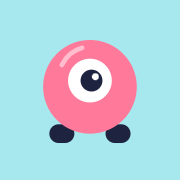
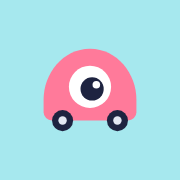
SafeRide: uniform purple header, Safe/Ride wordmark, Ridi without arc (v1020.10)

Changed region(s): [[0.2222, 0.2222, 0.7778, 0.8056], [0.3611, 0.3056, 0.6389, 0.6111]]

diff --git a/design_system_v1020/styles.css b/design_system_v1020/styles.css
@@ -1,4 +1,4 @@
-/* SafeRide Soft Sky — design_system_v1020
+/* SafeRide — design_system_v1020
    Tokens and components follow design_system_v1020.md. Light by default, dark via [data-theme="dark"]. */
 :root{
   --ground:#F2F4FA;--sheet:#F7F8FC;--card:#FFFFFF;--line:#E3E7F2;
@@ -6,6 +6,7 @@
   --tint-sky:#B9C7FF;--tint-aqua:#A6E8EE;--tint-blush:#FFD3DE;--tint-lilac:#DCD6FF;--tint-peach:#FFD0B5;
   --row-out:#F3F5FF;--row-back:#FFF5EE;
   --action:#3D5BD9;--action-hover:#2A44B0;--on-action:#FFFFFF;--action-line:#C9D2F2;--action-text:#2E47B8;--focus:#3D5BD9;
+  --brand-safe:#A6E8EE;--brand-ride:#8FAEFF;--brand-header:#3A3368;--on-header:#F4F2FF;--on-header-muted:#DDD9F5;
   --ridi:#FF7A9A;--accent-text:#C92F58;--tab-line:#E5486F;
   --ok-bg:#D7F5E3;--ok-fg:#17663A;--verified-bg:#E6F7EE;
   --wait-bg:#FFF1C7;--wait-fg:#7A5300;--note-bg:#FFF6DA;
@@ -26,6 +27,7 @@
   --tint-sky:#2D3B78;--tint-aqua:#1C4E58;--tint-blush:#5E2A3B;--tint-lilac:#3A3368;--tint-peach:#5A3520;
   --row-out:#232B52;--row-back:#3A2A22;
   --action:#8FA6FF;--action-hover:#B3C2FF;--on-action:#10142B;--action-line:#4A5590;--action-text:#B3C2FF;--focus:#B3C2FF;
+  --brand-safe:#A6E8EE;--brand-ride:#8FAEFF;--brand-header:#3A3368;--on-header:#F4F2FF;--on-header-muted:#DDD9F5;
   --ridi:#FF7A9A;--accent-text:#FF9DB4;--tab-line:#FF7A9A;
   --ok-bg:#173D2A;--ok-fg:#8FE0B0;--verified-bg:#163326;
   --wait-bg:#3D3214;--wait-fg:#F5D47A;--note-bg:#33290F;
@@ -69,7 +71,10 @@ h1,h2,h3,h4,p{margin:0}
 .screen{flex:1;display:flex;flex-direction:column;min-height:0}
 /* colour header */
 .hd{position:relative;padding:calc(env(safe-area-inset-top,0px) + 12px) var(--space-5) 52px;color:var(--ink)}
-.hd.driver{background:var(--tint-sky)}.hd.parent{background:var(--tint-aqua)}.hd.child{background:var(--tint-blush)}.hd.admin{background:var(--tint-lilac)}
+.hd,.hd.driver,.hd.parent,.hd.child,.hd.admin{background:var(--brand-header);color:var(--on-header)}
+.hd .circ,.hd .demo{background:rgba(255,255,255,.18);color:#fff}
+.hd .kick{color:var(--on-header-muted);opacity:1}
+.hd .bubble{background:var(--card);color:var(--ink)}
 .hd.m72{padding-bottom:76px}.hd.m96{padding-bottom:86px}
 .hd-top{display:flex;align-items:center;justify-content:space-between;gap:var(--space-2);min-height:44px;margin-bottom:var(--space-2)}
 .hd-top .sp{width:44px}
@@ -201,8 +206,8 @@ select.in{appearance:none;background-image:linear-gradient(45deg,transparent 50%
 .lrow{display:flex;align-items:center;gap:var(--space-3)}
 /* welcome */
 .welcome{flex:1;display:flex;flex-direction:column;align-items:center;padding:calc(env(safe-area-inset-top,0px) + 40px) var(--space-4) var(--space-8);gap:var(--space-4)}
-.welcome .word{font:800 34px/40px var(--display);color:var(--ink);letter-spacing:-.5px;direction:ltr}
-.welcome .word span{color:var(--action-text)}
+.welcome .word{font:800 34px/40px var(--display);color:var(--brand-safe);letter-spacing:-.5px;direction:ltr}
+.welcome .word span{color:var(--brand-ride)}
 .welcome .who{width:100%;display:flex;flex-direction:column;gap:var(--space-3)}
 .role-card{display:flex;align-items:center;gap:var(--space-3);background:var(--card);border-radius:var(--r-card);box-shadow:var(--shadow-card);padding:var(--space-3) var(--space-4);border:0;width:100%;text-align:right;font:inherit;color:inherit}
 .role-card>.ic{color:var(--ink-muted);width:22px;height:22px}
@@ -235,3 +240,5 @@ select.in{appearance:none;background-image:linear-gradient(45deg,transparent 50%
 .composer .in{flex:1}
 .composer .send{width:52px;height:52px;border-radius:var(--r-btn);border:0;background:var(--action);color:var(--on-action);display:inline-flex;align-items:center;justify-content:center;flex:none}
 .composer .send svg{transform:scaleX(-1)}
+
+.welcome{background:var(--brand-header);color:var(--on-header)}.welcome .sub,.welcome .lead,.welcome p{color:var(--on-header-muted)}.welcome .role-card,.welcome .role-card p{color:var(--ink)}

diff --git a/design_system_v1020/app.js b/design_system_v1020/app.js
@@ -1,4 +1,4 @@
-/* SafeRide · Soft Sky (design_system_v1020) — mobile prototype, demo data only. */
+/* SafeRide (design_system_v1020) — mobile prototype, demo data only. */
 (function(){
 'use strict';
 /* ================= icons (line, 24 grid, round caps) ================= */
@@ -137,14 +137,13 @@ function toast(t){
 }
 function go(v){S.view=v;S.modal=null;S.errs={};render()}
 
-/* ================= Soft Sky components ================= */
+/* ================= SafeRide components ================= */
 function Ridi(size,look){
- var dx=look==='left'?-3:look==='right'?3:0;
- return '<svg width="'+size+'" height="'+size+'" viewBox="0 0 72 72" aria-hidden="true">'+
-  '<rect x="10" y="58" width="16" height="12" rx="6" fill="#1E2340"/><rect x="46" y="58" width="16" height="12" rx="6" fill="#1E2340"/>'+
-  '<circle cx="36" cy="34" r="30" fill="var(--ridi)"/>'+
-  '<path d="M18 20a21 21 0 0 1 13-11" fill="none" stroke="#fff" stroke-opacity=".5" stroke-width="3" stroke-linecap="round"/>'+
-  '<circle cx="36" cy="30" r="14" fill="#fff"/><circle cx="'+(37+dx)+'" cy="30" r="7" fill="#1E2340"/><circle cx="'+(39.5+dx)+'" cy="27.5" r="2.2" fill="#fff"/></svg>';
+ var dx=look==='left'?-2:look==='right'?2:0;
+ return '<svg width="'+size+'" height="'+size+'" viewBox="4 9 56 56" aria-hidden="true">'+
+  '<path d="M10 40c0-12 9-24 22-24s22 12 22 24v6a4 4 0 0 1-4 4H14a4 4 0 0 1-4-4z" fill="var(--ridi)"/>'+
+  '<circle cx="32" cy="34" r="10" fill="#fff"/><circle cx="'+(33+dx)+'" cy="35" r="5.5" fill="#1E2340"/><circle cx="'+(35+dx)+'" cy="33" r="1.8" fill="#fff"/>'+
+  '<circle cx="19" cy="50" r="5" fill="#1E2340"/><circle cx="45" cy="50" r="5" fill="#1E2340"/><circle cx="19" cy="50" r="2" fill="#E3E7F2"/><circle cx="45" cy="50" r="2" fill="#E3E7F2"/></svg>';
 }
 function chip(kindName,icon,text,lg){return '<span class="chip '+kindName+(lg?' lg':'')+'">'+(icon?ic(icon):'')+esc(text)+'</span>'}
 var ST={approved:['ok','check','מאושר'],placed:['ok','check','משובץ'],pending:['wait','clock','ממתינה'],missing:['none','minus','חסר'],unplaced:['none','minus','לא משובץ'],rejected:['no','x','נדחתה'],verified:['verified','shield','מאומת על ידי החוג']};
@@ -869,7 +868,7 @@ function modalHtml(){
    '<div class="field"><label for="selClock">'+ic('clock')+'שעון ההדגמה</label><select id="selClock" class="in">'+CLOCKS.map(function(c){return '<option value="'+c.k+'" '+(S.clock===c.k?'selected':'')+'>'+c.label+'</option>'}).join('')+'</select></div>'+
    '<div class="field"><span class="lbl2">מראה</span><div class="seg">'+th.map(function(t){return '<button type="button" aria-pressed="'+(S.theme===t[0])+'"'+da('theme',{v:t[0]})+'>'+t[1]+'</button>'}).join('')+'</div></div>'+
    '<div class="field"><span class="lbl2">'+ic('sparkle')+'תנועה של רידי</span><div class="seg"><button type="button" aria-pressed="'+(S.motion==='auto')+'"'+da('motion',{v:'auto'})+'>לפי המכשיר</button><button type="button" aria-pressed="'+(S.motion==='on')+'"'+da('motion',{v:'on'})+'>תמיד</button></div><p class="cap mut">'+(reducedMotion()?'המכשיר שלך מבקש להפחית תנועה, ולכן ב"לפי המכשיר" רידי לא זז. בחר "תמיד" כדי לראות אותו מתנדנד.':'המכשיר לא מבקש להפחית תנועה, אז רידי אמור לזוז כל 2 שניות.')+'</p></div>'+
-   Btn('איפוס נתוני הדמה',{v:'danger',sm:true,a:'resetDemo'})+Btn('סגירה',{a:'closeModal'})+'<p class="cap mut" style="text-align:center">גרסה 1020.6 · רידי: תנועה לפי המכשיר או תמיד</p>');
+   Btn('איפוס נתוני הדמה',{v:'danger',sm:true,a:'resetDemo'})+Btn('סגירה',{a:'closeModal'})+'<p class="cap mut" style="text-align:center">גרסה 1020.10 · רידי: תנועה לפי המכשיר או תמיד</p>');
  }
  return '';
 }

diff --git a/design_system_v1020/index.html b/design_system_v1020/index.html
@@ -3,9 +3,9 @@
 <head>
 <meta charset="utf-8">
 <meta name="viewport" content="width=device-width,initial-scale=1,viewport-fit=cover">
-<title>SafeRide · Soft Sky</title>
+<title>SafeRide</title>
 <meta id="themeColor" name="theme-color" content="#F2F4FA">
-<meta name="description" content="SafeRide בעיצוב Soft Sky (design_system_v1020): הסעות משותפות לחוגים. גרסת מובייל עם נתוני דמה.">
+<meta name="description" content="SafeRide בעיצוב החדש (design_system_v1020): הסעות משותפות לחוגים. גרסת מובייל עם נתוני דמה.">
 <meta name="apple-mobile-web-app-capable" content="yes">
 <meta name="mobile-web-app-capable" content="yes">
 <meta name="apple-mobile-web-app-title" content="SafeRide">
@@ -16,7 +16,7 @@
 <link rel="preconnect" href="https://fonts.googleapis.com">
 <link rel="preconnect" href="https://fonts.gstatic.com" crossorigin>
 <link rel="stylesheet" href="https://fonts.googleapis.com/css2?family=Heebo:wght@400;500;700;800&family=Rubik:wght@500;700;800&display=swap">
-<link rel="stylesheet" href="styles.css?v=1020.6">
+<link rel="stylesheet" href="styles.css?v=1020.10">
 <script>
 /* set the theme before first paint (no flash) */
 (function(){try{var j=JSON.parse(localStorage.getItem('saferide-v1020'));var t=j&&j.theme||'auto';
@@ -27,6 +27,6 @@ document.documentElement.setAttribute('data-theme',dark?'dark':'light')}catch(e)
 <body>
 <div id="root"></div>
 <noscript><p style="padding:24px;text-align:center">האפליקציה צריכה JavaScript כדי לעבוד.</p></noscript>
-<script src="app.js?v=1020.6"></script>
+<script src="app.js?v=1020.10"></script>
 </body>
 </html>

diff --git a/design_system_v1020/design_system_v1020.md b/design_system_v1020/design_system_v1020.md
@@ -1,13 +1,13 @@
-# SafeRide Soft Sky
+# SafeRide
 
-שפת העיצוב של SafeRide, אפליקציה לתיאום הסעות משותפות לחוגים בין הורים. היא נבנתה מהקנבס "SafeRide – עיצוב חדש" (נובמבר 2026), בהשראת סקיצה של כותרת פסטלית עם גיליון לבן מעוגל ודמות מלווה.
+שפת העיצוב של SafeRide, אפליקציה לתיאום הסעות משותפות לחוגים בין הורים. היא נבנתה מהקנבס "SafeRide – עיצוב חדש" (נובמבר 2026), בהשראת סקיצה של כותרת עם גיליון לבן מעוגל ודמות מלווה.
 
 **במשפט אחד:** רגוע וידידותי לילדים, ברור ומעורר אמון אצל ההורים.
 
 ## עקרונות
 
-1. **כותרת צבע, גיליון לבן.** כל מסך נפתח בכותרת בצבע פסטל לפי התפקיד. מעליה עולה גיליון (`sheet`) עם פינות `radius-sheet`, בחפיפה של `space-8`.
-2. **צבע לפי תפקיד, לא לפי קישוט.** `tint-sky` למסיע, `tint-aqua` להורה המבקש, `tint-blush` לילד, `tint-lilac` למנהל החוג. כך כל אחד יודע מיד באיזה מסך הוא נמצא.
+1. **כותרת צבע, גיליון לבן.** כל מסך נפתח באותה כותרת סגולה עמוקה (`brand-header`, #3A3368) לכל המשתמשים. מעליה עולה גיליון (`sheet`) עם פינות `radius-sheet`, בחפיפה של `space-8`.
+2. **צבע לפי תפקיד, לא לפי קישוט.** הכותרת אחידה, והתפקיד נראה באווטארים, בתגים ובכפתור הצף: `tint-sky` למסיע, `tint-aqua` להורה המבקש, `tint-blush` לילד, `tint-lilac` למנהל החוג.
 3. **פעולה ראשית אחת.** בכל מסך יש כפתור `action` אחד בלבד. השאר משניים.
 4. **הלוך וחזור תמיד יחד.** כרטיס חוג מציג את שני הכיוונים. הלוך בגוון כחול (`out-bg`), חזור בגוון אפרסק (`back-bg`), ובכל אחד גם מילה וחץ.
 5. **מצב לעולם לא בצבע בלבד.** כל צ'יפ מצב נושא מילה ואייקון: וי, שעון, קו, איקס או מגן.
@@ -28,6 +28,15 @@
 - שעות בפורמט 24 שעות (16:30), תאריכים יום.חודש (9.11), ויום בשבוע במילה ("יום שני").
 - מקומות: "2 מתוך 4 תפוסים · מקום פנוי אחד". כשאין מקומות כותבים "מלאה".
 - משתמשים רק בשמות דמה. לא כותבים כתובות מלאות של ילדים.
+
+## לוגוטייפ
+
+השם הוא **SafeRide**, מילה אחת באנגלית, תמיד משמאל לימין (`dir="ltr"`), ב-Rubik במשקל 800.
+
+- **Safe** תמיד בתכלת-מים מרגיע (`brand-safe`, #A6E8EE) ו-**Ride** בכחול בהיר ובטוח (`brand-ride`, #8FAEFF), שניהם על הכותרת הסגולה האחידה (`brand-header`).
+- לא כותבים את השם בצבע אחד, לא מפרידים אותו לשתי מילים ולא מוסיפים לו שם משנה.
+- הלוגו יושב רק על הכותרת הסגולה: #A6E8EE על לבן הוא בערך 1.3:1, ועל הסגול הניגודיות היא כ-8:1 (ל-Ride כ-5:1).
+- גודל מינימלי 20px. בלי מצע נפרד ובלי מסגרת.
 
 ## צבע
 
@@ -53,21 +62,21 @@
 
 ## רידי, הדמות המלווה
 
-רידי הוא רכב עגול ורוד עם עין אחת גדולה. הוא מופיע פעם אחת בכל מסך, בתוך כפתור עגול שיושב מעל הקצה העליון של הגיליון, בצד שמאל. הכפתור נראה כמו כפתור: רקע `tint-aqua`, טבעת `card` וצל `shadow-fab`, כמו כפתור ה-FAB של הסרגל התחתון.
+רידי הוא רכב עגול ורוד עם עין אחת גדולה ושני גלגלים עגולים. אין לו קשת או כרבולת מעל הגוף, כדי שהצללית תיקרא כרכב. הוא מופיע פעם אחת בכל מסך, בתוך כפתור עגול שיושב מעל הקצה העליון של הגיליון, בצד שמאל. הכפתור נראה כמו כפתור: רקע `tint-aqua`, טבעת `card` וצל `shadow-fab`, כמו כפתור ה-FAB של הסרגל התחתון.
 
 - רידי הוא כפתור הכניסה היחיד לשיחה עם ה-AI, ולכן הוא מופיע בכל מסך. כשהוא מדבר (פענוח טקסט חופשי, הסבר למה הסעה מתאימה, בקשה להשלים פרט חסר) הוא מלווה בניצוץ. כשהוא לא מדבר הוא שקט אבל לחיץ.
 - את ההסבר שלו מסמנים בניצוץ (`sparkle`) בצבע `accent-text`.
-- לא מגדילים את רידי מעל 96px במסך, ולא מוסיפים לו פה, ידיים או טקסט. התווית "שיחה עם רידי" היא תווית נגישות בלבד.
+- לא מגדילים את רידי מעל 96px במסך, ולא מוסיפים לו פה, ידיים, קשת על הראש או טקסט. התווית "שיחה עם רידי" היא תווית נגישות בלבד.
 - לחיצה על רידי פותחת גיליון שיחה מלמטה, לא מסך חדש, כדי שההקשר לא יאבד. בגיליון יש הצעות קצרות לפי המסך, ושום פעולה לא נשמרת בלי אישור: רידי מכין טיוטה ומוביל למסך שבו ההורה מאשר.
 - רידי מתנדנד קלות כל 2 שניות, תמיד, כדי להזכיר שאפשר ללחוץ עליו. התנועה נמשכת פחות משנייה ואז הוא נח. היא מושבתת כשהמכשיר מבקש להפחית תנועה. באבטיפוס ההדגמה יש מתג "תנועה של רידי" (לפי המכשיר / תמיד) שמראה גם אם המכשיר מבקש להפחית תנועה. בפעם הראשונה בועת הדיבור בכותרת מוסיפה גם שורה "לחצו עליי ונדבר", שנעלמת אחרי הלחיצה הראשונה.
 - שטח הלחיצה גדול מהחלק שנראה (עד 14px לכל כיוון), כי רק העין בולטת מעל הגיליון.
 - במסך הילד השיחה מוגבלת לשאלות על ההסעות של הילד עצמו. אסור לאפשר שיחה חופשית לילדים.
 - כפתור הפלוס נשאר הדרך הקבועה לפתוח הסעה חדשה. רידי יכול להכין טיוטה של הסעה, והשמירה נעשית רק במסך הפתיחה.
-- הקובץ נמצא בקבוצת הנכסים Mascot, וכרכיב React הוא `SoftSky.Mascot`.
+- הקובץ נמצא בקבוצת הנכסים Mascot, וכרכיב React הוא `SafeRide.Mascot`.
 
 ## אייקונים
 
-אייקונים בקו (stroke) על רשת 24, בעובי 2 עד 2.6, עם קצוות מעוגלים, בצבע הטקסט שלידם (`currentColor`). הסט נמצא ב-`SoftSky.Icon`. לא משתמשים באימוג'י.
+אייקונים בקו (stroke) על רשת 24, בעובי 2 עד 2.6, עם קצוות מעוגלים, בצבע הטקסט שלידם (`currentColor`). הסט נמצא ב-`SafeRide.Icon`. לא משתמשים באימוג'י.
 
 ## נגישות
 
@@ -78,7 +87,7 @@
 
 ## רכיבים
 
-`Screen` (כותרת צבע וגיליון), `ActivityCard`, `RideRow`, `StatusChip`, `DirectionChip`, `Avatar`, `SeatMeter`, `Button`, `Tabs`, `BottomNav` (כולל FAB), `Mascot`, `Icon`. כולם נמצאים ב-`window.SoftSky`, דורשים React 18 ומניחים RTL.
+`Screen` (כותרת סגולה וגיליון), `ActivityCard`, `RideRow`, `StatusChip`, `DirectionChip`, `Avatar`, `SeatMeter`, `Button`, `Tabs`, `BottomNav` (כולל FAB), `Mascot`, `Icon`. כולם נמצאים ב-`window.SafeRide`, דורשים React 18 ומניחים RTL.
 
 ---
 
@@ -94,10 +103,10 @@
 | `line` | `#E3E7F2` | `#323858` | קווי הפרדה, קו תחתון של לשוניות, מסגרת של מקום ריק (מקווקו). |
 | `ink` | `#1E2340` | `#EEF0FA` | טקסט ראשי על sheet, card וכל צבעי ה-tint. |
 | `ink-muted` | `#5B6280` | `#A9AFCC` | מידע משני: שעות, אזורים, תוויות. עובר 4.5:1 על card ועל sheet. |
-| `tint-sky` | `#B9C7FF` | `#2D3B78` | כותרת צבע של מסכי ההורה המסיע. |
-| `tint-aqua` | `#A6E8EE` | `#1C4E58` | כותרת צבע של מסכי ההורה המבקש וכפתור ה-FAB. |
-| `tint-blush` | `#FFD3DE` | `#5E2A3B` | כותרת צבע של מסך הילד, ותג 'ילד המסיע'. |
-| `tint-lilac` | `#DCD6FF` | `#3A3368` | כותרת צבע של מסך מנהל החוג. |
+| `tint-sky` | `#B9C7FF` | `#2D3B78` | אווטאר ותגים של ההורה המסיע. |
+| `tint-aqua` | `#A6E8EE` | `#1C4E58` | אווטאר ותגים של ההורה המבקש, וכפתור ה-FAB. |
+| `tint-blush` | `#FFD3DE` | `#5E2A3B` | אווטאר של הילד, ותג 'ילד המסיע'. |
+| `tint-lilac` | `#DCD6FF` | `#3A3368` | אווטאר ותגים של מנהל החוג. |
 | `tint-peach` | `#FFD0B5` | `#5A3520` | אווטאר של מסיע בכיוון חזור. |
 | `row-out` | `#F3F5FF` | `#232B52` | רקע שורת מסיע בכיוון הלוך. |
 | `row-back` | `#FFF5EE` | `#3A2A22` | רקע שורת מסיע בכיוון חזור. |
@@ -107,6 +116,10 @@
 | `action-line` | `#C9D2F2` | `#4A5590` | מסגרת של כפתור משני. |
 | `action-text` | `#2E47B8` | `#B3C2FF` | טקסט של כפתור משני ופריט ניווט פעיל. |
 | `focus` | `#3D5BD9` | `#B3C2FF` | טבעת פוקוס, 3px עם מרווח 2px. |
+| `brand-header` | `#3A3368` | `#3A3368` | הכותרת האחידה בכל המסכים (הסגול הקיים, בגוון עמוק). |
+| `on-header` | `#F4F2FF` | `#F4F2FF` | טקסט וכפתורי זכוכית על הכותרת. משני: `#DDD9F5`. |
+| `brand-safe` | `#A6E8EE` | `#A6E8EE` | המילה Safe בלוגוטייפ. תמיד #A6E8EE, רק על `brand-header`. |
+| `brand-ride` | `#8FAEFF` | `#8FAEFF` | המילה Ride בלוגוטייפ, כחול בהיר ובטוח על `brand-header`. |
 | `ridi` | `#FF7A9A` | `#FF7A9A` | גוף הדמות רידי בלבד. קישוט, לעולם לא טקסט. |
 | `accent-text` | `#C92F58` | `#FF9DB4` | לשונית פעילה ואייקון ההסבר של רידי (ניצוץ). |
 | `tab-line` | `#E5486F` | `#FF7A9A` | הקו התחתון של לשונית פעילה. |
@@ -181,13 +194,13 @@
 
 # רכיבים
 
-כל הרכיבים זמינים ב-`window.SoftSky` (React 18, RTL).
+כל הרכיבים זמינים ב-`window.SafeRide` (React 18, RTL).
 
 ## Screen
 
-שלד המסך: כותרת בצבע התפקיד וגיליון מעוגל שעולה עליה, עם כפתור רידי שצף מעל הקצה העליון של הגיליון.
+שלד המסך: כותרת סגולה אחידה וגיליון מעוגל שעולה עליה, עם כפתור רידי שצף מעל הקצה העליון של הגיליון.
 
-- `role` קובע את צבע הכותרת: `driver` שמיים, `parent` מים, `child` ורוד רך, `admin` לילך.
+- הכותרת אחידה (`brand-header`) לכל התפקידים. `role` נשמר לצורך נגישות והתנהגות, לא לצבע הכותרת.
 - בכותרת יש `kicker` (שורה קטנה מעל), `title` ובועת דיבור (`bubble`) של משפט אחד.
 - כל התוכן נכנס לגיליון (`children`). הגיליון עולה `space-8` על הכותרת.
 - רידי מופיע בכל מסך. כשהוא לא מדבר, למשל בבקשת הצטרפות, הוא שקט אבל נשאר כפתור.
@@ -283,7 +296,7 @@
 
 ## Mascot
 
-רידי, הדמות המלווה: רכב עגול ורוד עם עין אחת. הוא מופיע פעם אחת בכל מסך, והוא כפתור שפותח שיחה עם ה-AI.
+רידי, הדמות המלווה: רכב עגול ורוד עם עין אחת. אין לו קשת או כרבולת מעל הגוף: רק גוף כיפה, עין אחת ושני גלגלים עגולים. הוא מופיע פעם אחת בכל מסך, והוא כפתור שפותח שיחה עם ה-AI.
 
 - גדלים: כפתור של 68px (רידי בתוכו 44px) בכל מסך, ו-84px (רידי 60px) בכותרת של מסך הילד. רידי עצמו לא עולה על 96px. הכפתור צף מעל הגיליון ולכן חופף לו בכ-34px, והגיליון משאיר לו מקום בראשו.
 - רידי נראה בשלמותו בתוך העיגול, עם הגלגלים. הוא כבר לא מציץ מאחורי הגיליון.
@@ -305,8 +318,8 @@
 
 ## Mascot
 
-`ridi.svg`: רידי בצבעים קבועים. גוף `#FF7A9A`, ועין וגלגלים `#1E2340`. בתוך האפליקציה משתמשים ברכיב `SoftSky.Mascot`, שהגוף שלו נקשר לטוקן `ridi`. הקובץ מיועד למצגות, לאייקון האפליקציה ולשימוש מחוץ לקוד.
+`ridi.svg`: רידי בצבעים קבועים, בלי קשת מעל הגוף. גוף `#FF7A9A`, ועין וגלגלים `#1E2340`. בתוך האפליקציה משתמשים ברכיב `SafeRide.Mascot`, שהגוף שלו נקשר לטוקן `ridi`. הקובץ מיועד למצגות, לאייקון האפליקציה ולשימוש מחוץ לקוד.
 
 ---
 
-מקור: מערכת העיצוב SafeRide Soft Sky ב-claude.ai, גרסה ראשונה, 7.11.2026.
+מקור: מערכת העיצוב SafeRide ב-claude.ai, גרסה ראשונה, 7.11.2026.

diff --git a/design_system_v1020/README.md b/design_system_v1020/README.md
@@ -1,6 +1,6 @@
-# SafeRide · Soft Sky (design_system_v1020)
+# SafeRide (design_system_v1020)
 
-גרסת מובייל עובדת של SafeRide, בנויה לפי מערכת העיצוב `design_system_v1020.md` (SafeRide Soft Sky). בלי שרת, בלי התקנה ובלי מפתחות. כל הנתונים הם דמה.
+גרסת מובייל עובדת של SafeRide, בנויה לפי מערכת העיצוב `design_system_v1020.md`. בלי שרת, בלי התקנה ובלי מפתחות. כל הנתונים הם דמה.
 
 ## לשחק באפליקציה
 - אחרי שמפעילים GitHub Pages: https://odedbenhefer.github.io/saferide-prototype/design_system_v1020/
@@ -26,9 +26,10 @@
 
 ## איך העיצוב מופיע בקוד
 - **טוקנים** (צבעים בהיר וכהה, גופנים Rubik ו-Heebo, מרווחים, רדיוסים וצללים) ב-`styles.css`, בראש הקובץ.
-- **רכיבים** ב-`app.js`: `Screen` (כותרת צבע וגיליון), `ActivityCard`, `RideRow`, `StatusChip`, `DirectionChip`, `Avatar`, `SeatMeter`, `Button`, `Tabs`, `BottomNav` עם FAB, `Ridi` ו-`ic` (אייקונים).
-- צבע הכותרת לפי תפקיד: שמיים למסיע, מים להורה, ורוד לילד, לילך למנהל.
-- רידי מופיע פעם אחת בכל מסך, בתוך כפתור עגול שצף מעל קצה הגיליון (כמו כפתור הפלוס). לחיצה עליו פותחת גיליון שיחה. הוא מציע ומכין טיוטות ולא שומר דבר בלי אישור. הוא מתנדנד קלות כל 2 שניות (לא כשהמכשיר מבקש להפחית תנועה). אם הוא לא זז, ב"מצב הדגמה" יש מתג "תנועה של רידי": "תמיד" מפעיל את התנועה בכל מקרה, והטקסט מתחתיו אומר אם המכשיר מבקש להפחית תנועה. בפעם הראשונה יש גם רמז "לחצו עליי ונדבר".
+- **רכיבים** ב-`app.js`: `Screen` (כותרת סגולה אחידה וגיליון), `ActivityCard`, `RideRow`, `StatusChip`, `DirectionChip`, `Avatar`, `SeatMeter`, `Button`, `Tabs`, `BottomNav` עם FAB, `Ridi` ו-`ic` (אייקונים).
+- הכותרת אחידה לכל התפקידים (`--brand-header`, #3A3368). צבע התפקיד נשאר באווטארים, בתגים ובכפתור הצף: שמיים למסיע, מים להורה, ורוד לילד, לילך למנהל.
+- לוגוטייפ: **Safe** ב-#A6E8EE ו-**Ride** ב-#8FAEFF, תמיד על הכותרת הסגולה.
+- רידי הוא רכב כיפה ורוד עם עין אחת ושני גלגלים עגולים, בלי קשת מעל הגוף (v1020.10). הוא מופיע פעם אחת בכל מסך, בתוך כפתור עגול שצף מעל קצה הגיליון (כמו כפתור הפלוס). לחיצה עליו פותחת גיליון שיחה. הוא מציע ומכין טיוטות ולא שומר דבר בלי אישור. הוא מתנדנד קלות כל 2 שניות (לא כשהמכשיר מבקש להפחית תנועה). אם הוא לא זז, ב"מצב הדגמה" יש מתג "תנועה של רידי": "תמיד" מפעיל את התנועה בכל מקרה, והטקסט מתחתיו אומר אם המכשיר מבקש להפחית תנועה. בפעם הראשונה יש גם רמז "לחצו עליי ונדבר".
 - מצב כהה: אוטומטי לפי המכשיר, או ידני ב"מצב הדגמה".
 
 ## מה לא אמיתי

diff --git a/README.md b/README.md
@@ -1,6 +1,6 @@
 # SafeRide: אבטיפוס פרונט אנד (נתוני דמה) · v2
 
-> **חדש:** גרסת מובייל בעיצוב Soft Sky, בתיקייה [`design_system_v1020/`](design_system_v1020/README.md). האתר: https://odedbenhefer.github.io/saferide-prototype/design_system_v1020/
+> **חדש:** גרסת מובייל בעיצוב החדש, בתיקייה [`design_system_v1020/`](design_system_v1020/README.md). האתר: https://odedbenhefer.github.io/saferide-prototype/design_system_v1020/
 
 `index.html` ותיקיית `assets/` עם האיורים (SVG), בלי שרת, בלי התקנה ובלי מפתחות. כל הנתונים בזיכרון הדפדפן, וכל רענון מאפס אותם. חשוב להשאיר את `assets/` ליד `index.html`, אחרת האיורים לא יוצגו.
 
